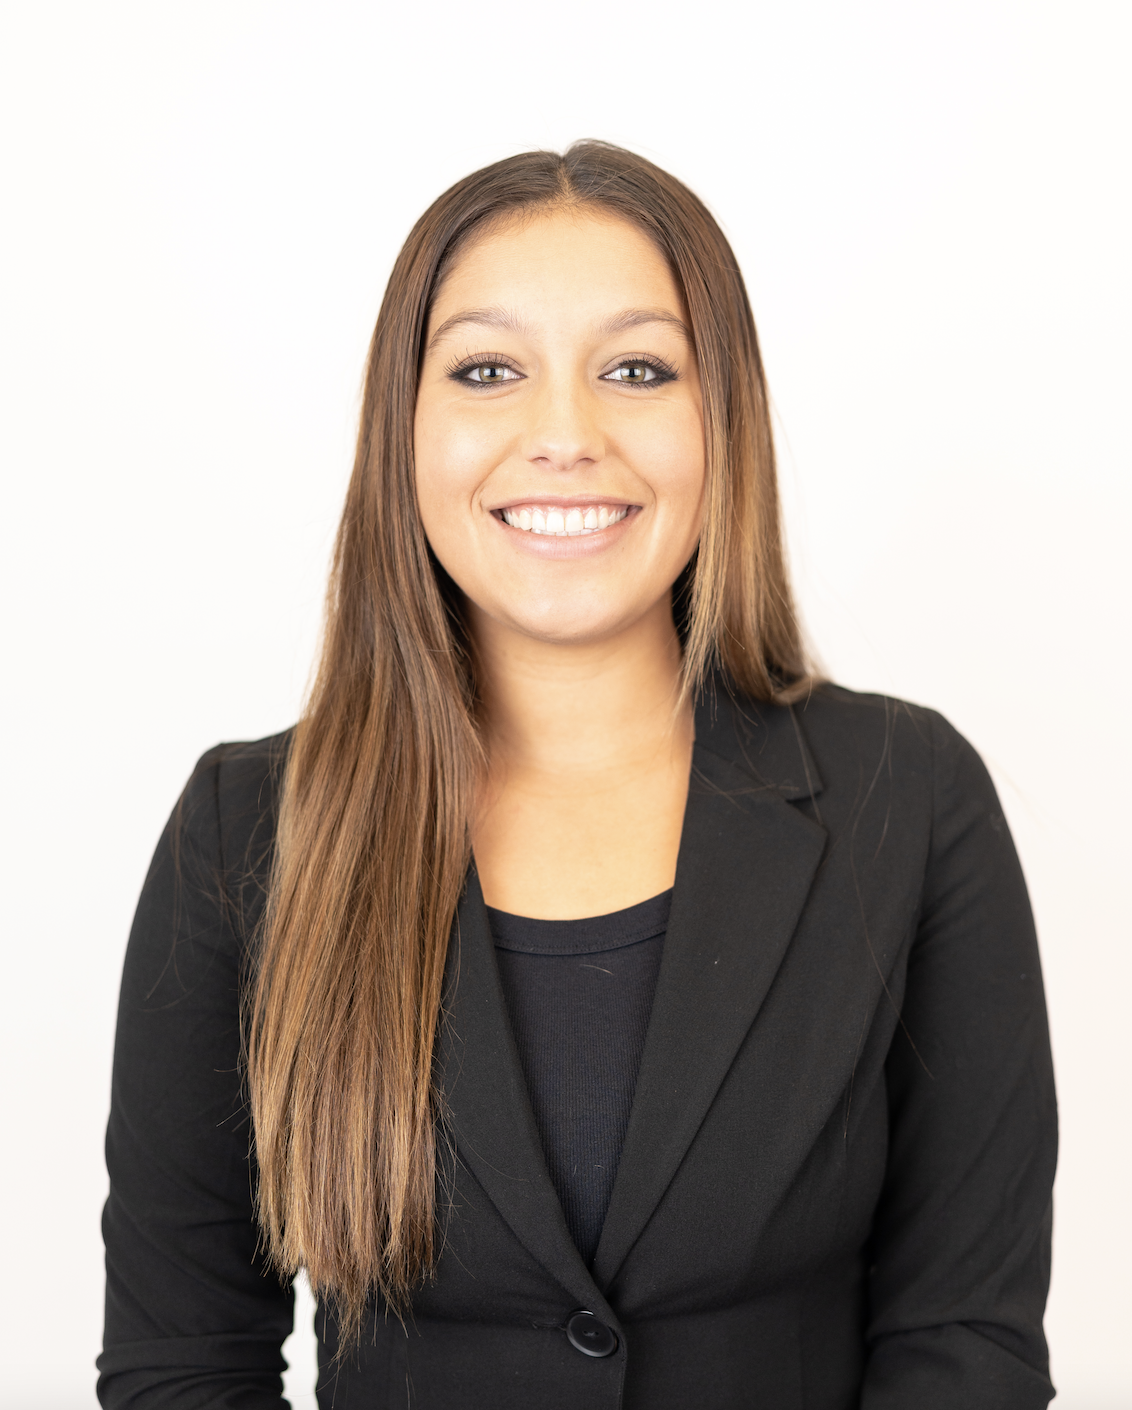
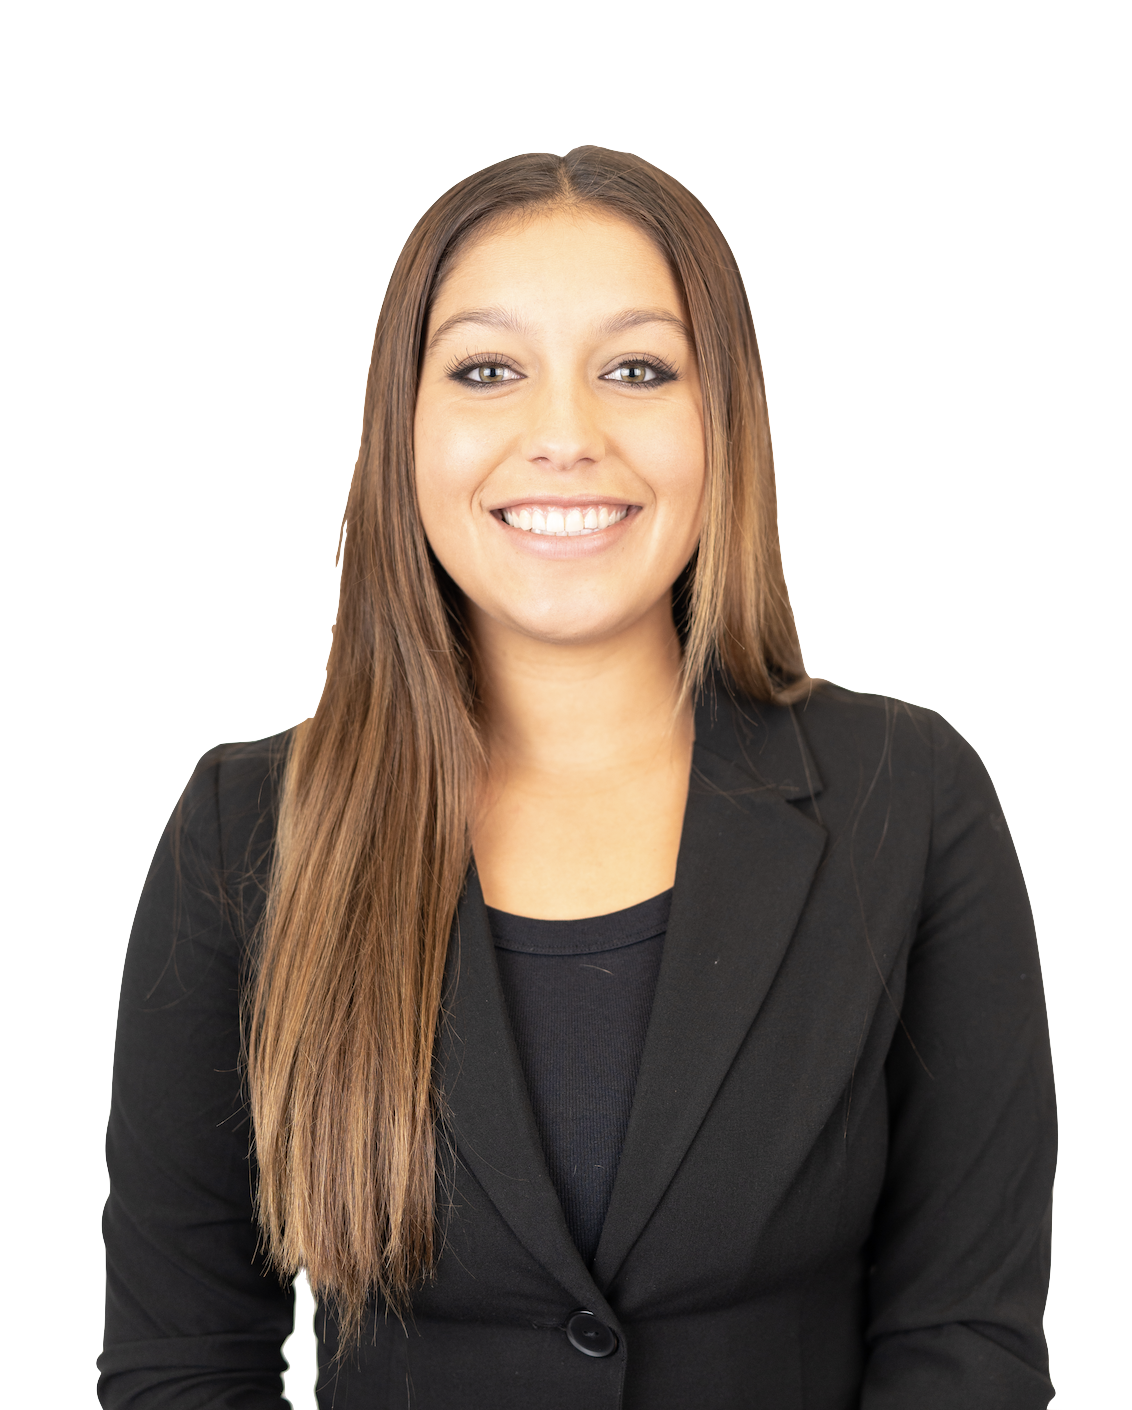
new

diff --git a/index.html b/index.html
@@ -4,10 +4,17 @@
     <meta charset="UTF-8">
     <meta http-equiv="X-UA-Compatible" content="IE=edge">
     <meta name="viewport" content="width=device-width, initial-scale=1.0">
-    <title>Document</title>
+    <title>Personal Portfolio</title>
     <link rel="stylesheet" href="style.css">
 </head>
 <body>
-    
+    <div id="header">
+        <div class="container">
+            <nav>
+                <img src="images/logo.png" alt="logo">
+            </nav>
+        </div>
+    </div>
+
 </body>
 </html>

diff --git a/style.css b/style.css
@@ -4,3 +4,17 @@
     font-family: Georgia, 'Times New Roman', Times, serif;
     box-sizing: border-box;
 }
+
+body{
+    background: #080808;
+    color: #fff;
+}
+
+#header{
+    width: 100%;
+    height: 100vh;
+    background-image: url(images/screen\ shot\ headshot.png);
+    background-size: contain;
+    background-position: right;
+    background-repeat: no-repeat;
+}
